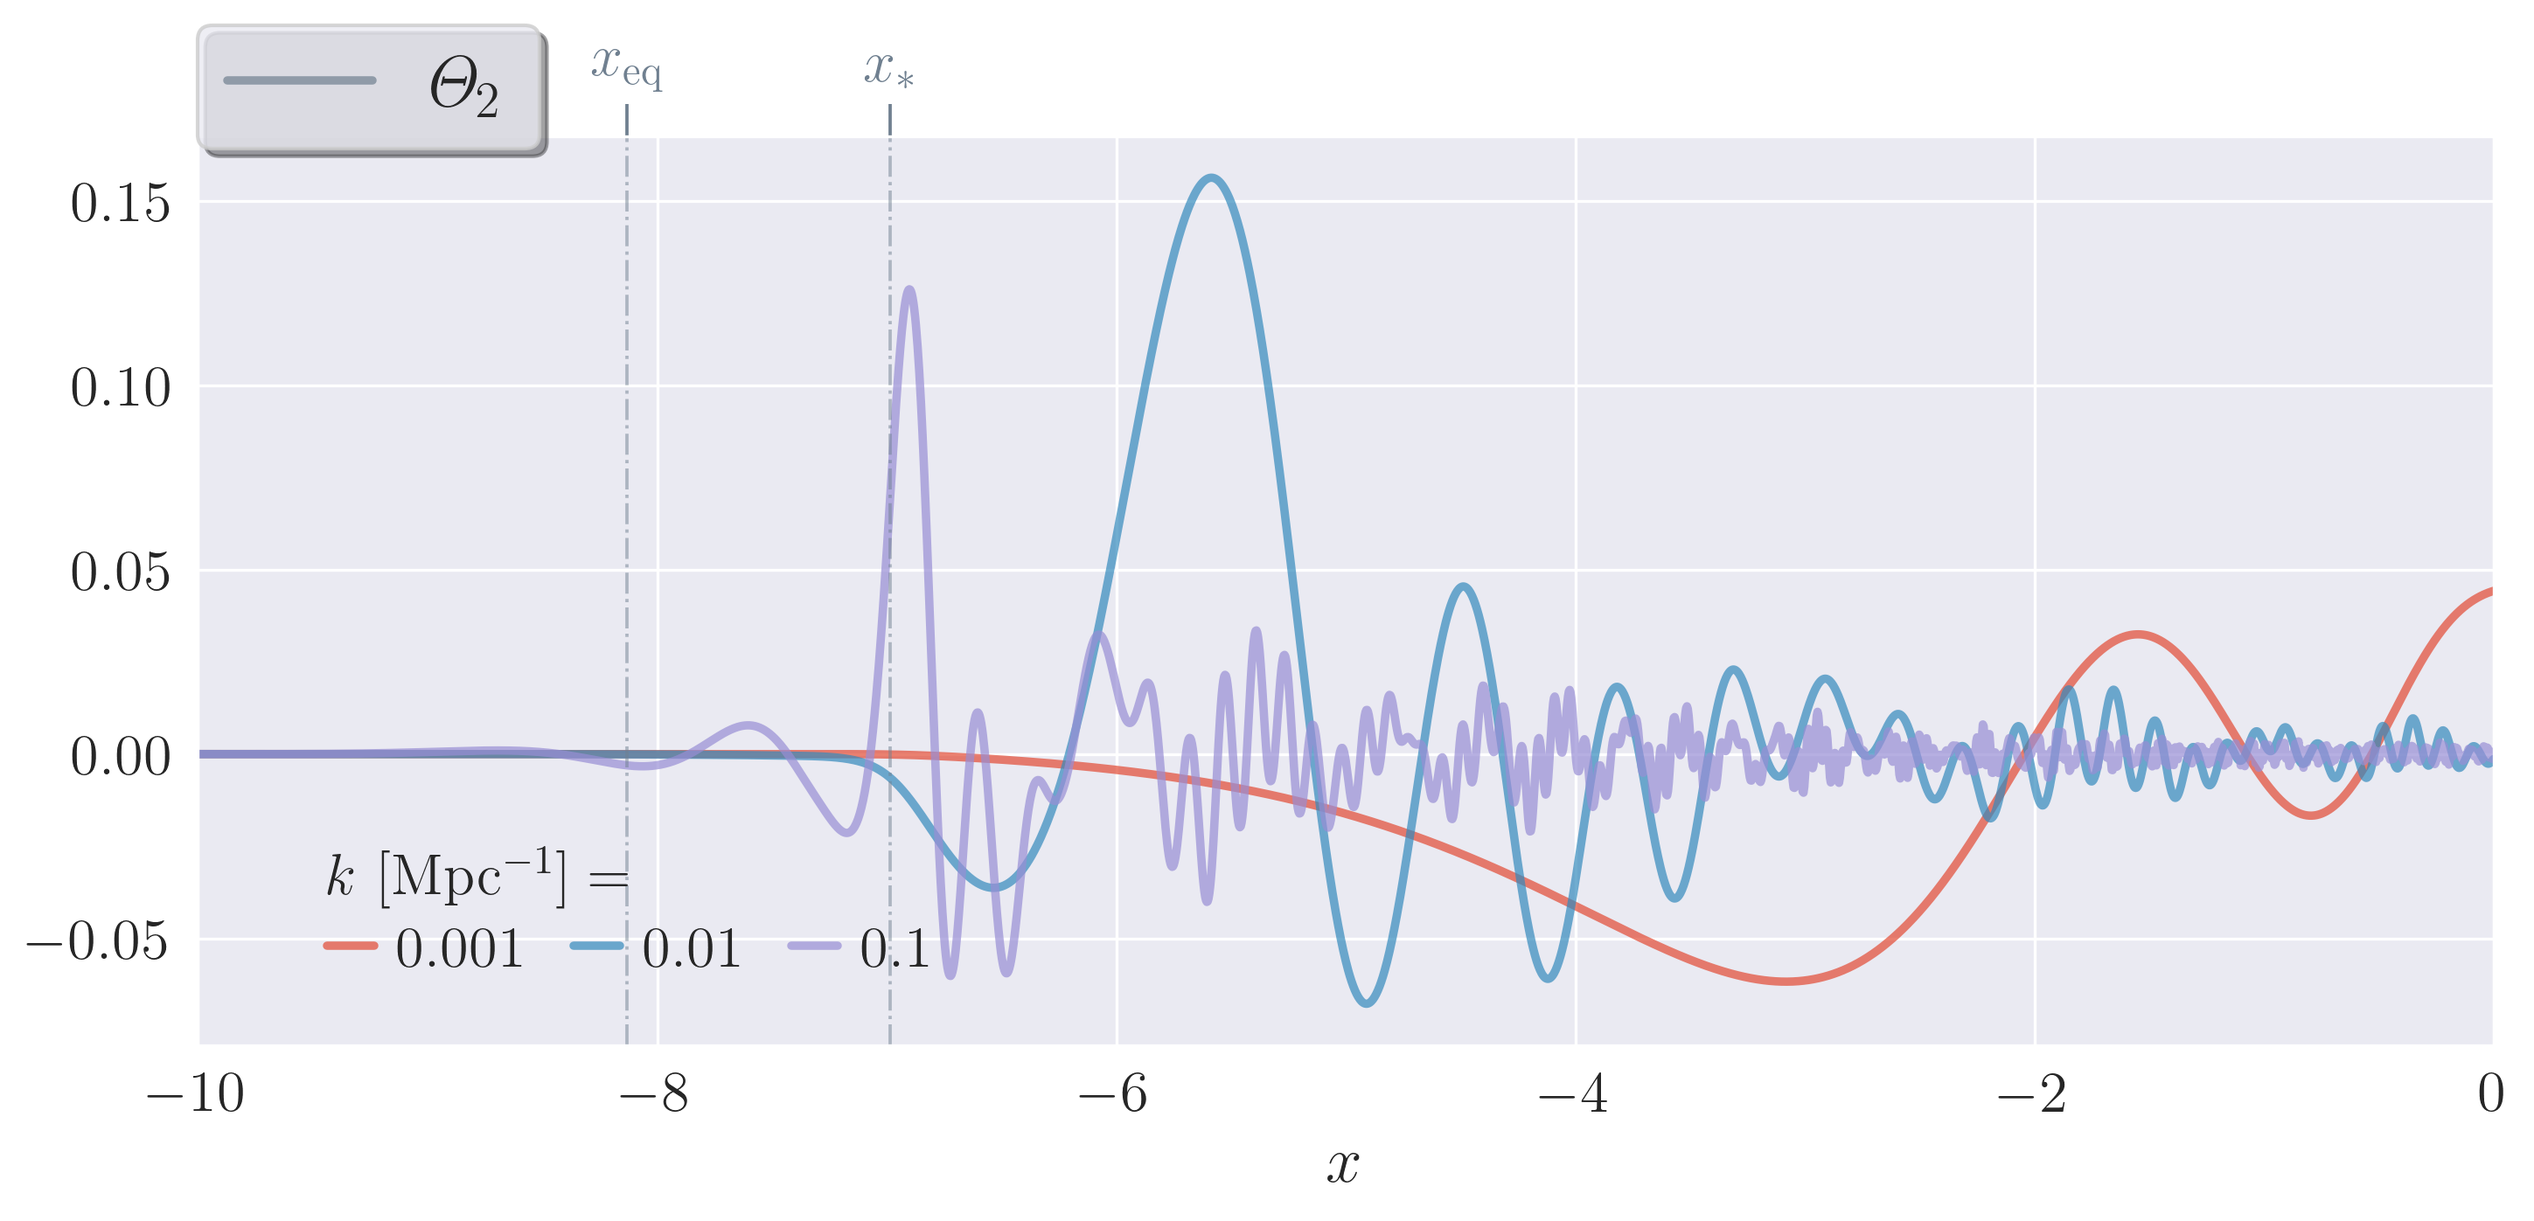
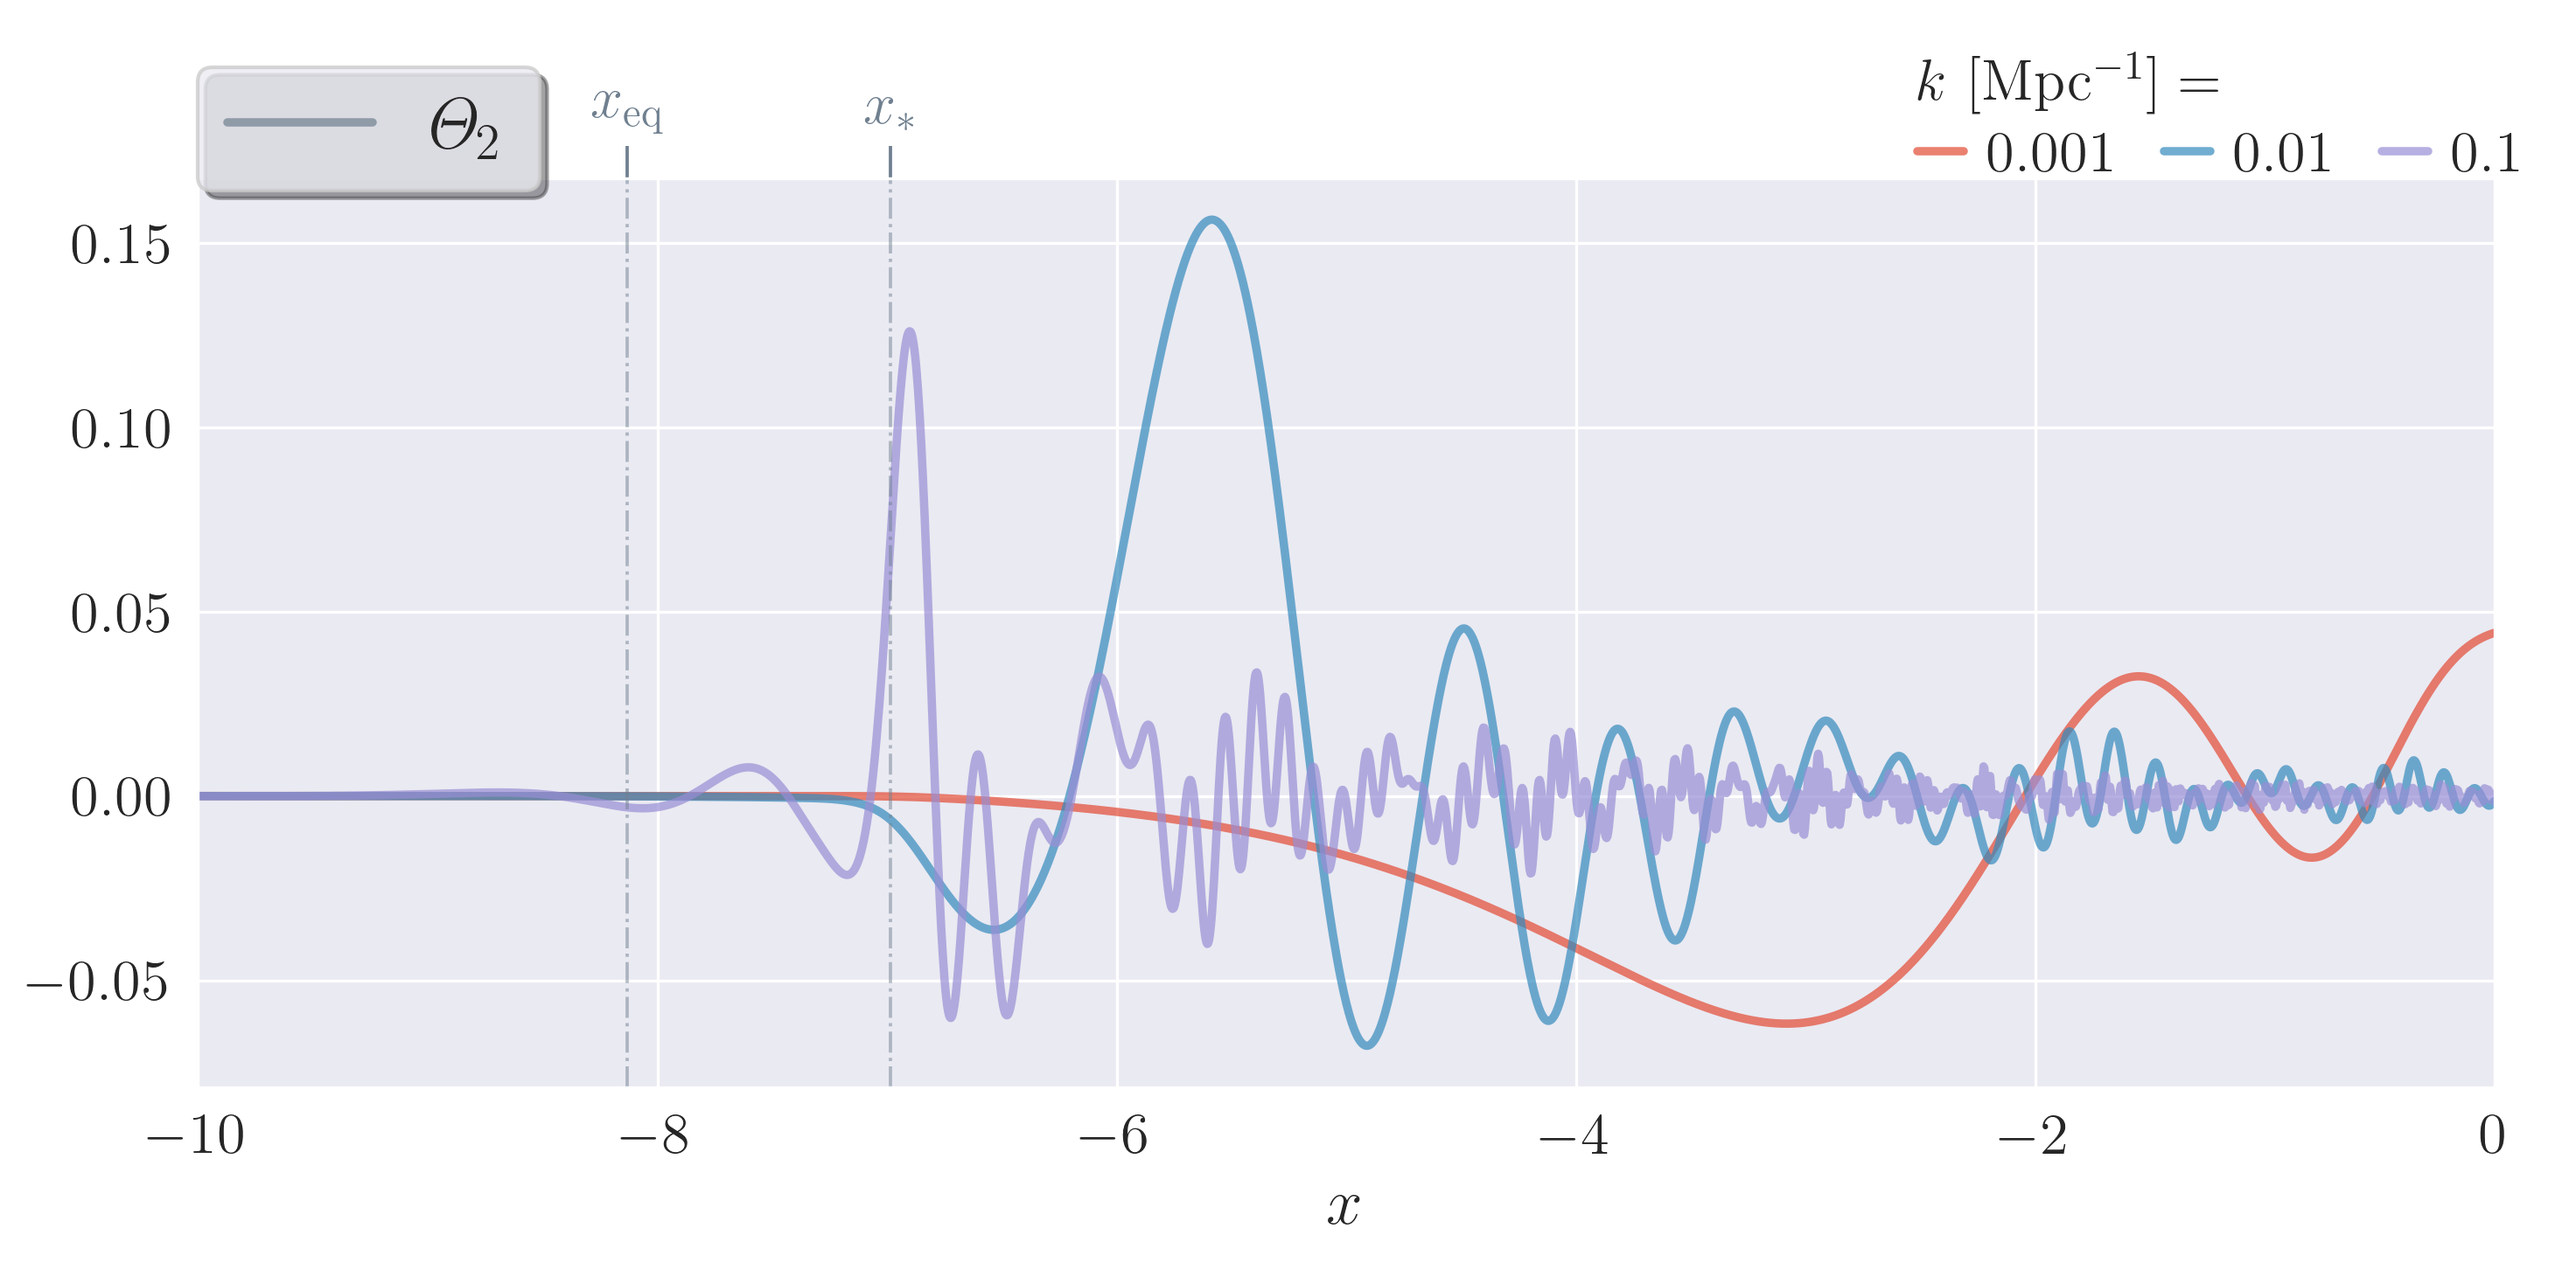
liten endring i quadrupole

diff --git a/src/plotting/plotsrc_milestone_three.py b/src/plotting/plotsrc_milestone_three.py
@@ -149,7 +149,7 @@ def PhotonQuadrupole(df_list, k_dict, savefig=True):
     legend_kw = dict(bbox_to_anchor=(0., 1.02, 1., .102), loc='upper left', borderaxespad=0.)
     ax.legend(**legend_kw)
 
-    __set_k_label(fig, k_handles, k_dict, (0.12, 0.18))
+    __set_k_label(fig, k_handles, k_dict, "upper right")
     ax.set_xlabel(tex.x)
     ax.set_xlim(-10,0)
     
